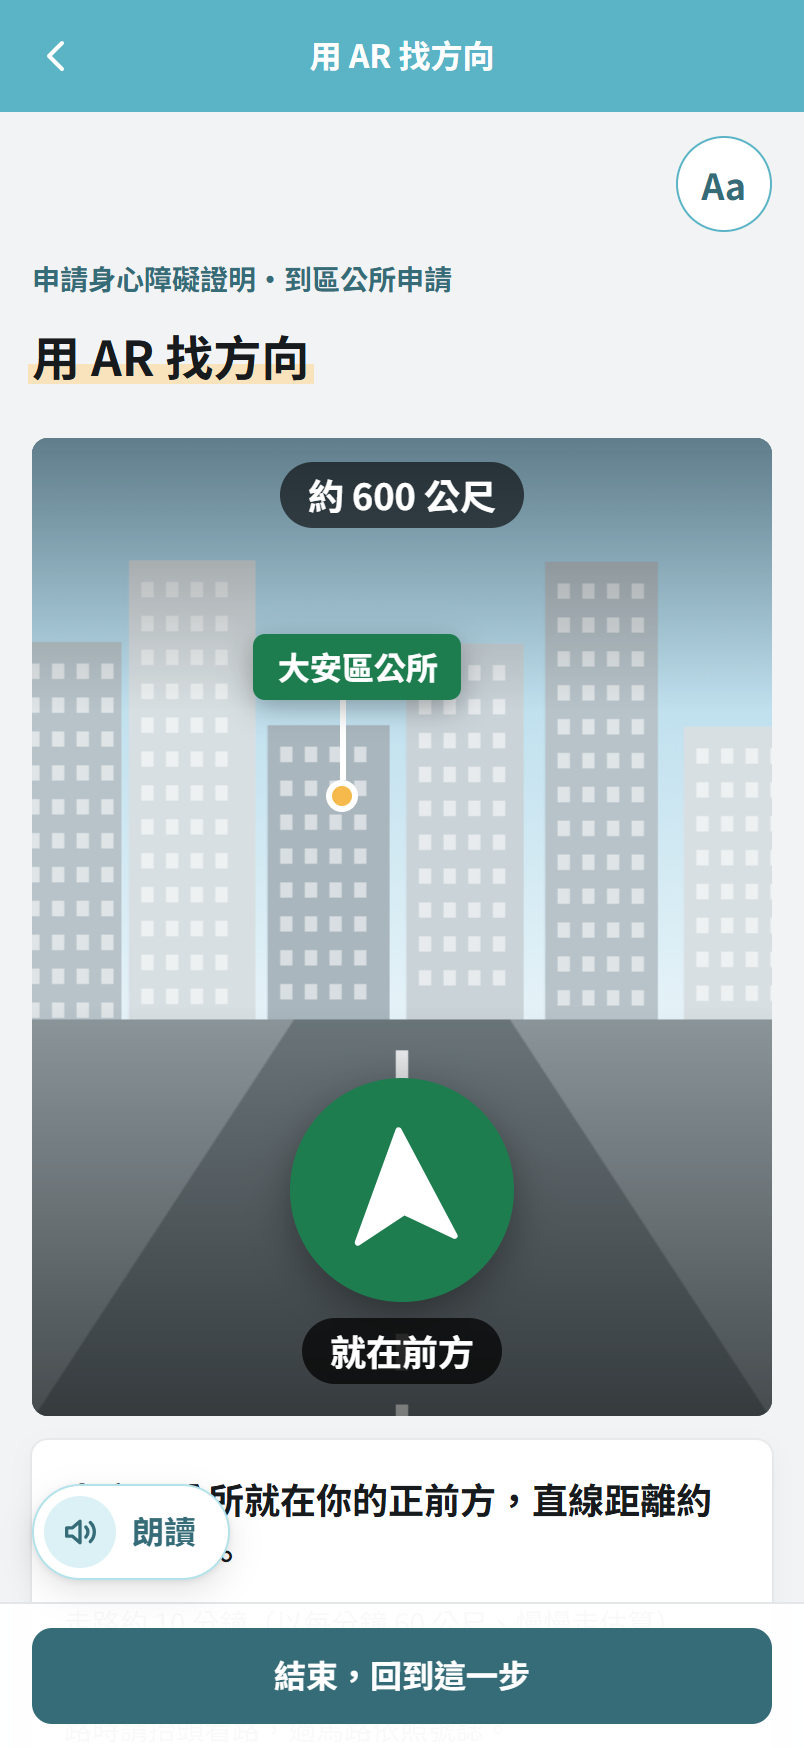
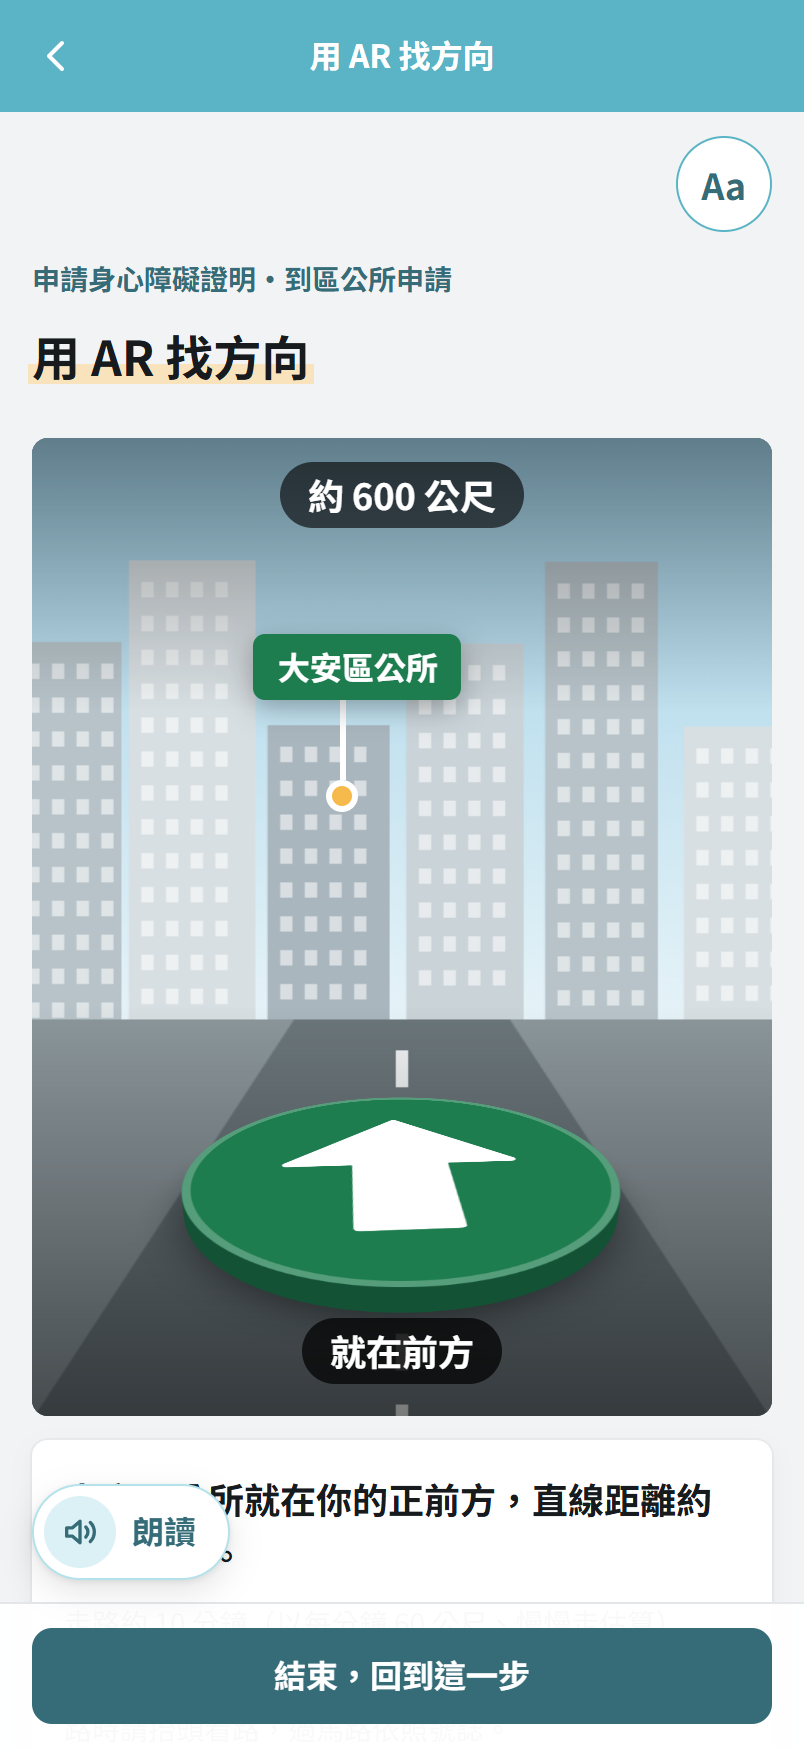
AR 箭頭改成平放在前方地面上的立體圓盤，版本號改為 1.0.6
- 開相機時，箭頭圓盤往後倒 70 度平躺在地面上，帶透視與厚度（疊幾層側邊加影子），只有盤上的箭頭轉向目的地；對準時圓盤變綠
- 箭頭用有箭身的形狀，轉到側邊或後方時方向一樣清楚
- 沒有相機的指南針錶盤與到達時的打勾維持平面圓盤
- README 的 AR 截圖、GIF 與說明一併更新

Changed region(s): [[0.2177, 0.6178, 0.7774, 0.7723]]

diff --git a/microservice/src/components/ArViewport.vue b/microservice/src/components/ArViewport.vue
@@ -22,6 +22,9 @@ const props = defineProps<{
 /** 後鏡頭直拿時，畫面左右大約涵蓋 50 度；目的地落在這個範圍內才在畫面上畫標記 */
 const CAMERA_FOV = 50
 
+/** 地面箭頭圓盤的厚度：疊幾層側邊（離地面幾 px），盤面在最上層 */
+const RIM_DEPTHS = [3, 5.5, 8, 10.5, 13]
+
 const video = ref<HTMLVideoElement | null>(null)
 const needsTap = ref(false)
 
@@ -86,7 +89,25 @@ const labelShift = computed(() => (pinLeft.value === null ? 0 : (50 - pinLeft.va
       </div>
 
       <div class="pointer" :class="{ 'pointer--center': !stream }">
-        <span class="pointer__disc" :class="{ 'pointer__disc--aligned': aligned, 'pointer__disc--arrived': arrived }">
+        <!-- 有相機時，箭頭像畫在前方地面上：圓盤平躺、帶透視與厚度，只有盤面上的箭頭轉向目的地 -->
+        <div v-if="stream && !arrived" class="ground">
+          <div class="ground__plane">
+            <span class="ground__shadow" />
+            <span
+              v-for="depth in RIM_DEPTHS"
+              :key="depth"
+              class="ground__rim"
+              :class="{ 'ground__rim--aligned': aligned }"
+              :style="{ transform: `translateZ(${depth}px)` }"
+            />
+            <span class="pointer__disc pointer__disc--ground" :class="{ 'pointer__disc--aligned': aligned }">
+              <svg class="ground__chevron" viewBox="0 0 48 48" :style="{ transform: `rotate(${rotation}deg)` }">
+                <path d="M24 5 41 22 30.5 22 30.5 42 17.5 42 17.5 22 7 22Z" fill="currentColor" stroke="currentColor" stroke-width="1.5" stroke-linejoin="round" />
+              </svg>
+            </span>
+          </div>
+        </div>
+        <span v-else class="pointer__disc" :class="{ 'pointer__disc--aligned': aligned, 'pointer__disc--arrived': arrived }">
           <svg v-if="!arrived" class="pointer__arrow" viewBox="0 0 48 48" :style="{ transform: `rotate(${rotation}deg)` }">
             <path d="M24 4 40 40 24 31 8 40Z" fill="currentColor" stroke="currentColor" stroke-width="2" stroke-linejoin="round" />
           </svg>
@@ -174,6 +195,8 @@ const labelShift = computed(() => (pinLeft.value === null ? 0 : (50 - pinLeft.va
 }
 
 .chip--strong {
+  position: relative;
+  z-index: 1;
   background: rgb(0 0 0 / 72%);
 }
 
@@ -260,6 +283,71 @@ const labelShift = computed(() => (pinLeft.value === null ? 0 : (50 - pinLeft.va
 .pointer__arrow {
   width: 65%;
   height: 65%;
+}
+
+/*
+ * 地面箭頭：圓盤往後倒 70 度平躺，像站著看前方的地面，越遠越窄；
+ * 盤面浮在地面上 14px，底下疊幾層深色側邊當厚度，再加一圈模糊的影子。
+ * 容器高度只留圓盤倒下後看得到的部分，下方的短句才不會離太遠。
+ */
+.ground {
+  --ground: min(52vw, 210px);
+  position: relative;
+  width: var(--ground);
+  height: calc(var(--ground) * 0.52);
+  perspective: 380px;
+  perspective-origin: 50% 10%;
+}
+
+.ground__plane {
+  position: absolute;
+  left: 0;
+  top: 50%;
+  width: var(--ground);
+  height: var(--ground);
+  margin-top: calc(var(--ground) / -2);
+  transform: rotateX(70deg);
+  transform-style: preserve-3d;
+}
+
+.ground__shadow,
+.ground__rim,
+.pointer__disc--ground {
+  position: absolute;
+  inset: 0;
+  border-radius: 50%;
+}
+
+.ground__shadow {
+  background: rgb(0 0 0 / 45%);
+  filter: blur(10px);
+}
+
+.ground__rim {
+  background: #8d9ca4;
+  transition: background-color 0.2s ease;
+}
+
+.ground__rim--aligned {
+  background: #135235;
+}
+
+.pointer__disc--ground {
+  width: 100%;
+  height: 100%;
+  background: rgb(255 255 255 / 92%);
+  box-shadow: inset 0 0 0 4px rgb(0 0 0 / 6%);
+  transform: translateZ(14px);
+}
+
+.pointer__disc--ground.pointer__disc--aligned {
+  background: var(--ar-green);
+  box-shadow: inset 0 0 0 4px rgb(255 255 255 / 25%);
+}
+
+.ground__chevron {
+  width: 76%;
+  height: 76%;
 }
 
 /* ── 錶盤 ── */

diff --git a/README.md b/README.md
@@ -75,7 +75,7 @@
 
 ### AR 方向指引
 
-要到區公所、戶政事務所或聯醫院區臨櫃辦理時，打開相機，大箭頭指向目的地並顯示直線距離。對準時箭頭變綠、寫「就在前方」。方向同時寫成句子讓讀屏念出；沒有相機或指南針時改用錶盤或東南西北說法。
+要到區公所、戶政事務所或聯醫院區臨櫃辦理時，打開相機，前方地面上會出現一個帶透視與厚度的圓盤，盤上的箭頭指向目的地，上方顯示直線距離。對準時圓盤變綠、寫「就在前方」。方向同時寫成句子讓讀屏念出；沒有相機或指南針時改用錶盤或東南西北說法。
 
 </td>
 <td width="50%" valign="top">
@@ -87,7 +87,7 @@
 </td>
 </tr>
 <tr>
-<td align="center"><img src="docs/readme/ar.gif" width="280" alt="AR 方向指引：慢慢轉身，箭頭轉到指向大安區公所時變綠色，顯示就在前方"><br><sub>電腦瀏覽器模擬：街景是假的相機畫面，方位由程式合成</sub></td>
+<td align="center"><img src="docs/readme/ar.gif" width="280" alt="AR 方向指引：慢慢轉身，地面圓盤上的箭頭轉到指向大安區公所時，圓盤變綠色，顯示就在前方"><br><sub>電腦瀏覽器模擬：街景是假的相機畫面，方位由程式合成</sub></td>
 <td align="center"><img src="docs/readme/display.gif" width="280" alt="字級與對比：依序切換大、特大、最大字級、高對比與易讀版"></td>
 </tr>
 </table>
@@ -117,7 +117,7 @@
 <td align="center"><img src="docs/readme/city.png" alt="城市地圖"><br><b>城市地圖</b><br><sub>標籤是真正的按鈕，讀屏可操作</sub></td>
 <td align="center"><img src="docs/readme/city-sheet.png" alt="大樓抽屜"><br><b>大樓抽屜</b><br><sub>這一類的事與進度</sub></td>
 <td align="center"><img src="docs/readme/guide.png" alt="城市嚮導"><br><b>城市嚮導</b><br><sub>沒有模型時用預設說明</sub></td>
-<td align="center"><img src="docs/readme/ar.png" alt="AR 方向指引"><br><b>AR 方向指引</b><br><sub>對準後箭頭變綠（瀏覽器模擬）</sub></td>
+<td align="center"><img src="docs/readme/ar.png" alt="AR 方向指引"><br><b>AR 方向指引</b><br><sub>地面上的箭頭，對準後變綠（瀏覽器模擬）</sub></td>
 </tr>
 <tr>
 <td align="center"><img src="docs/readme/safety.png" alt="家暴求助"><br><b>家暴求助</b><br><sub>不留紀錄，固定有 110、113 與快速離開</sub></td>
